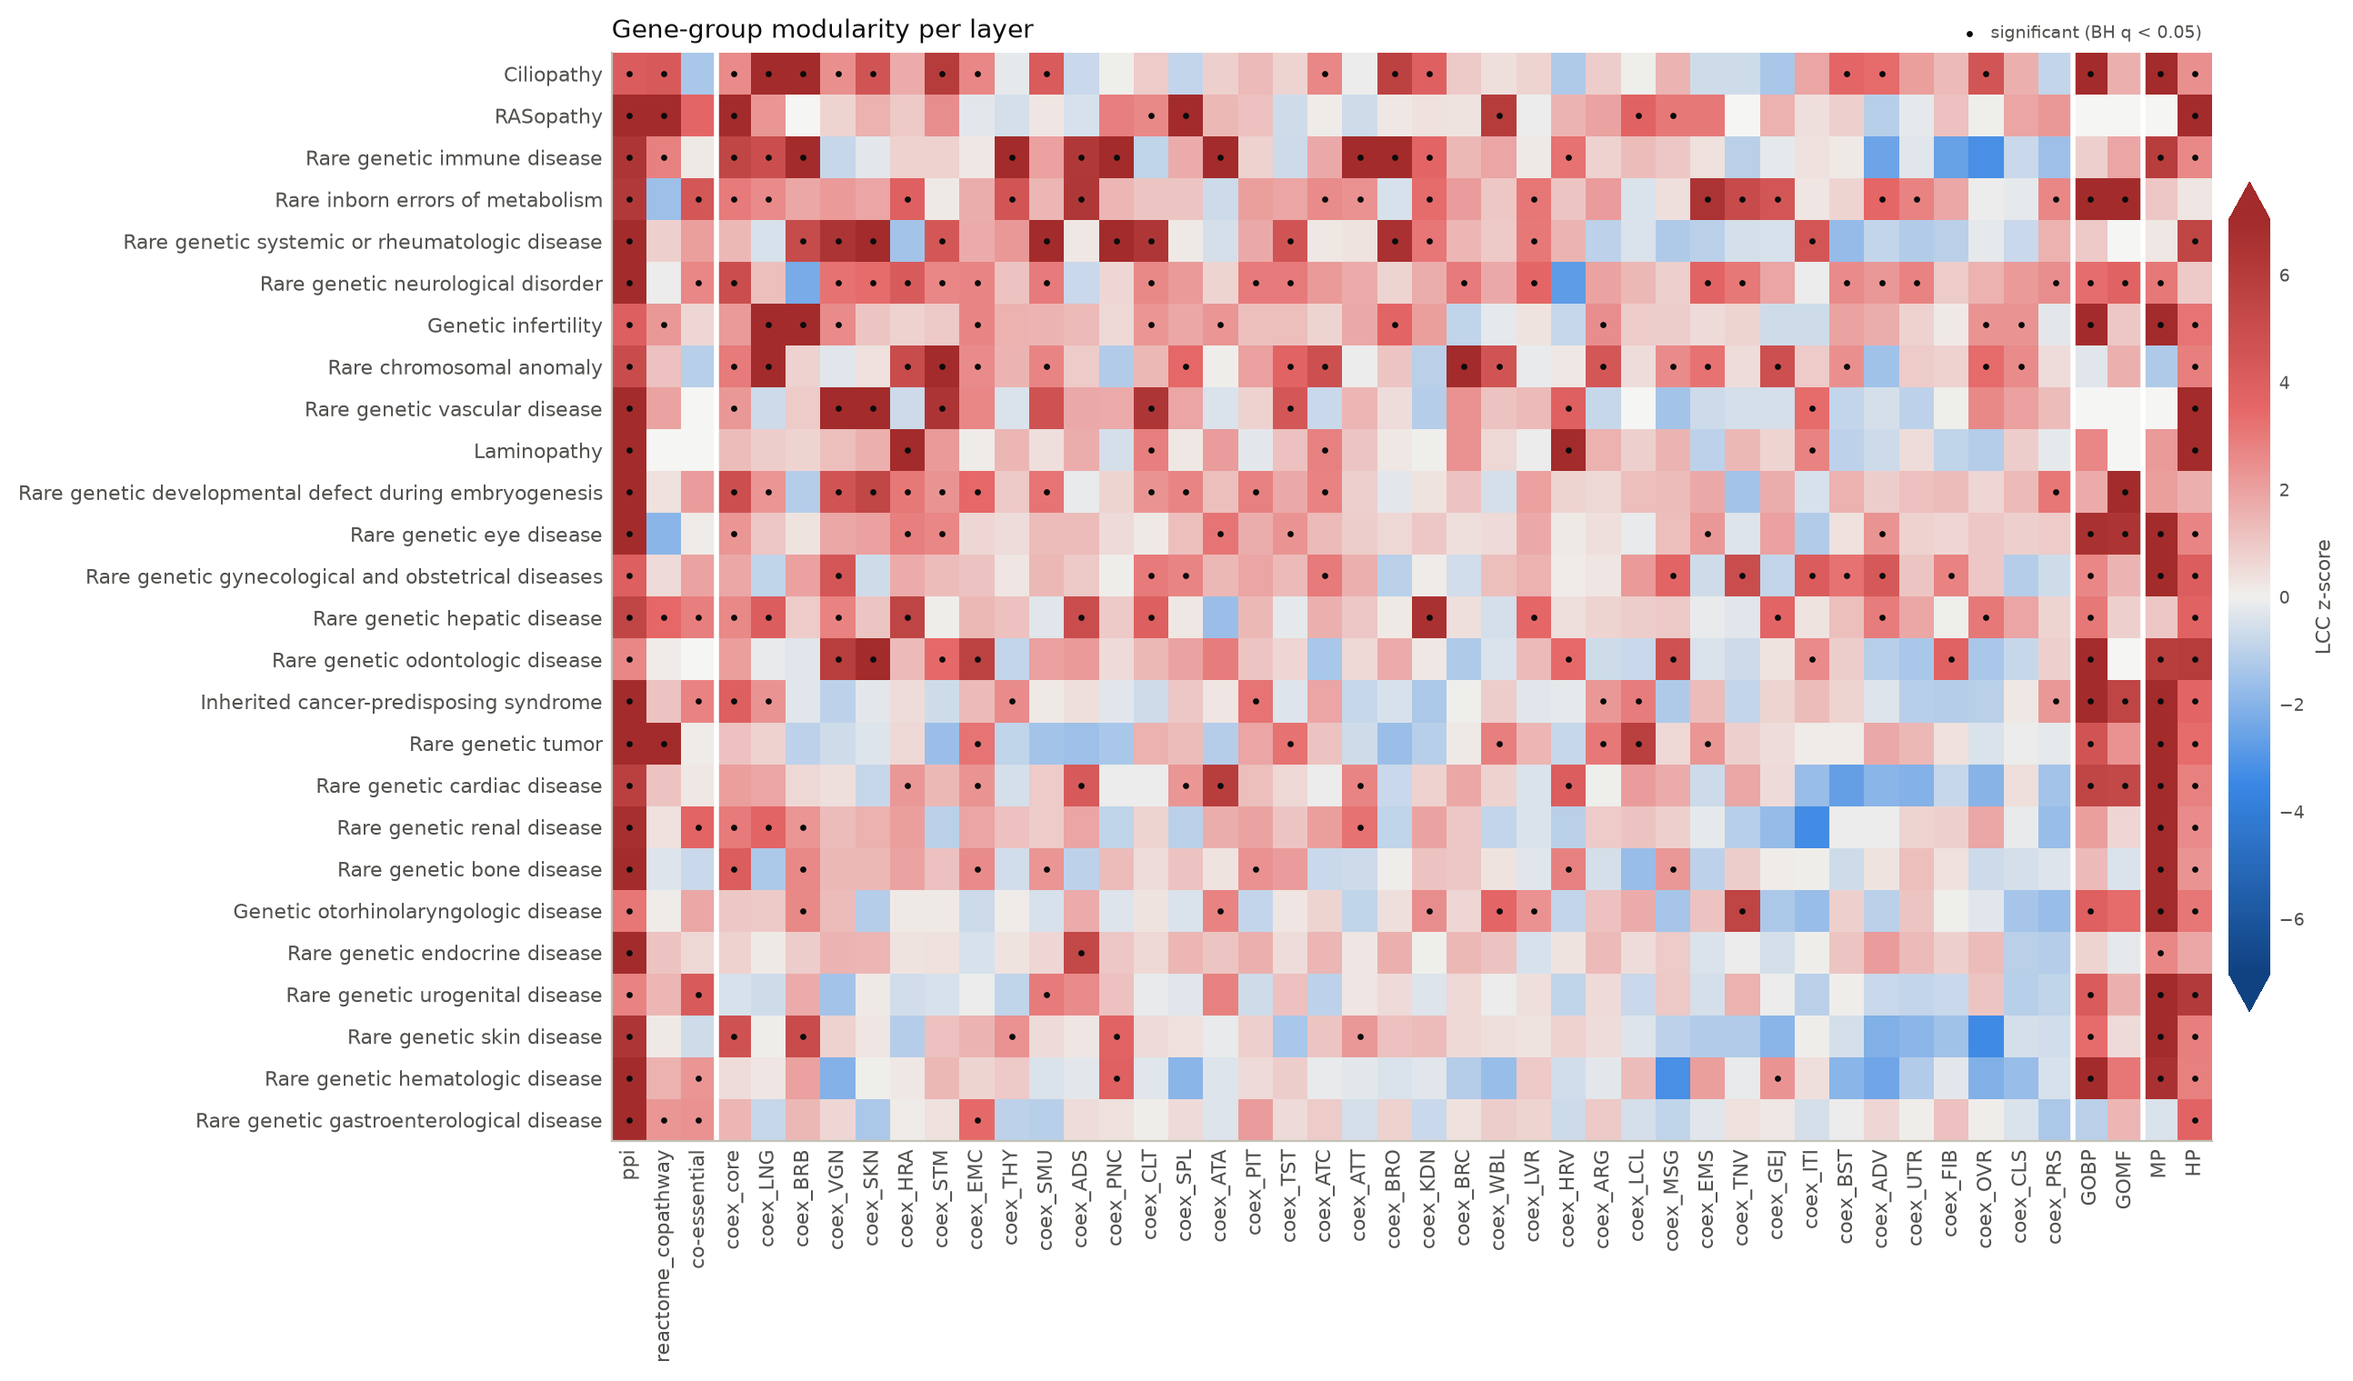
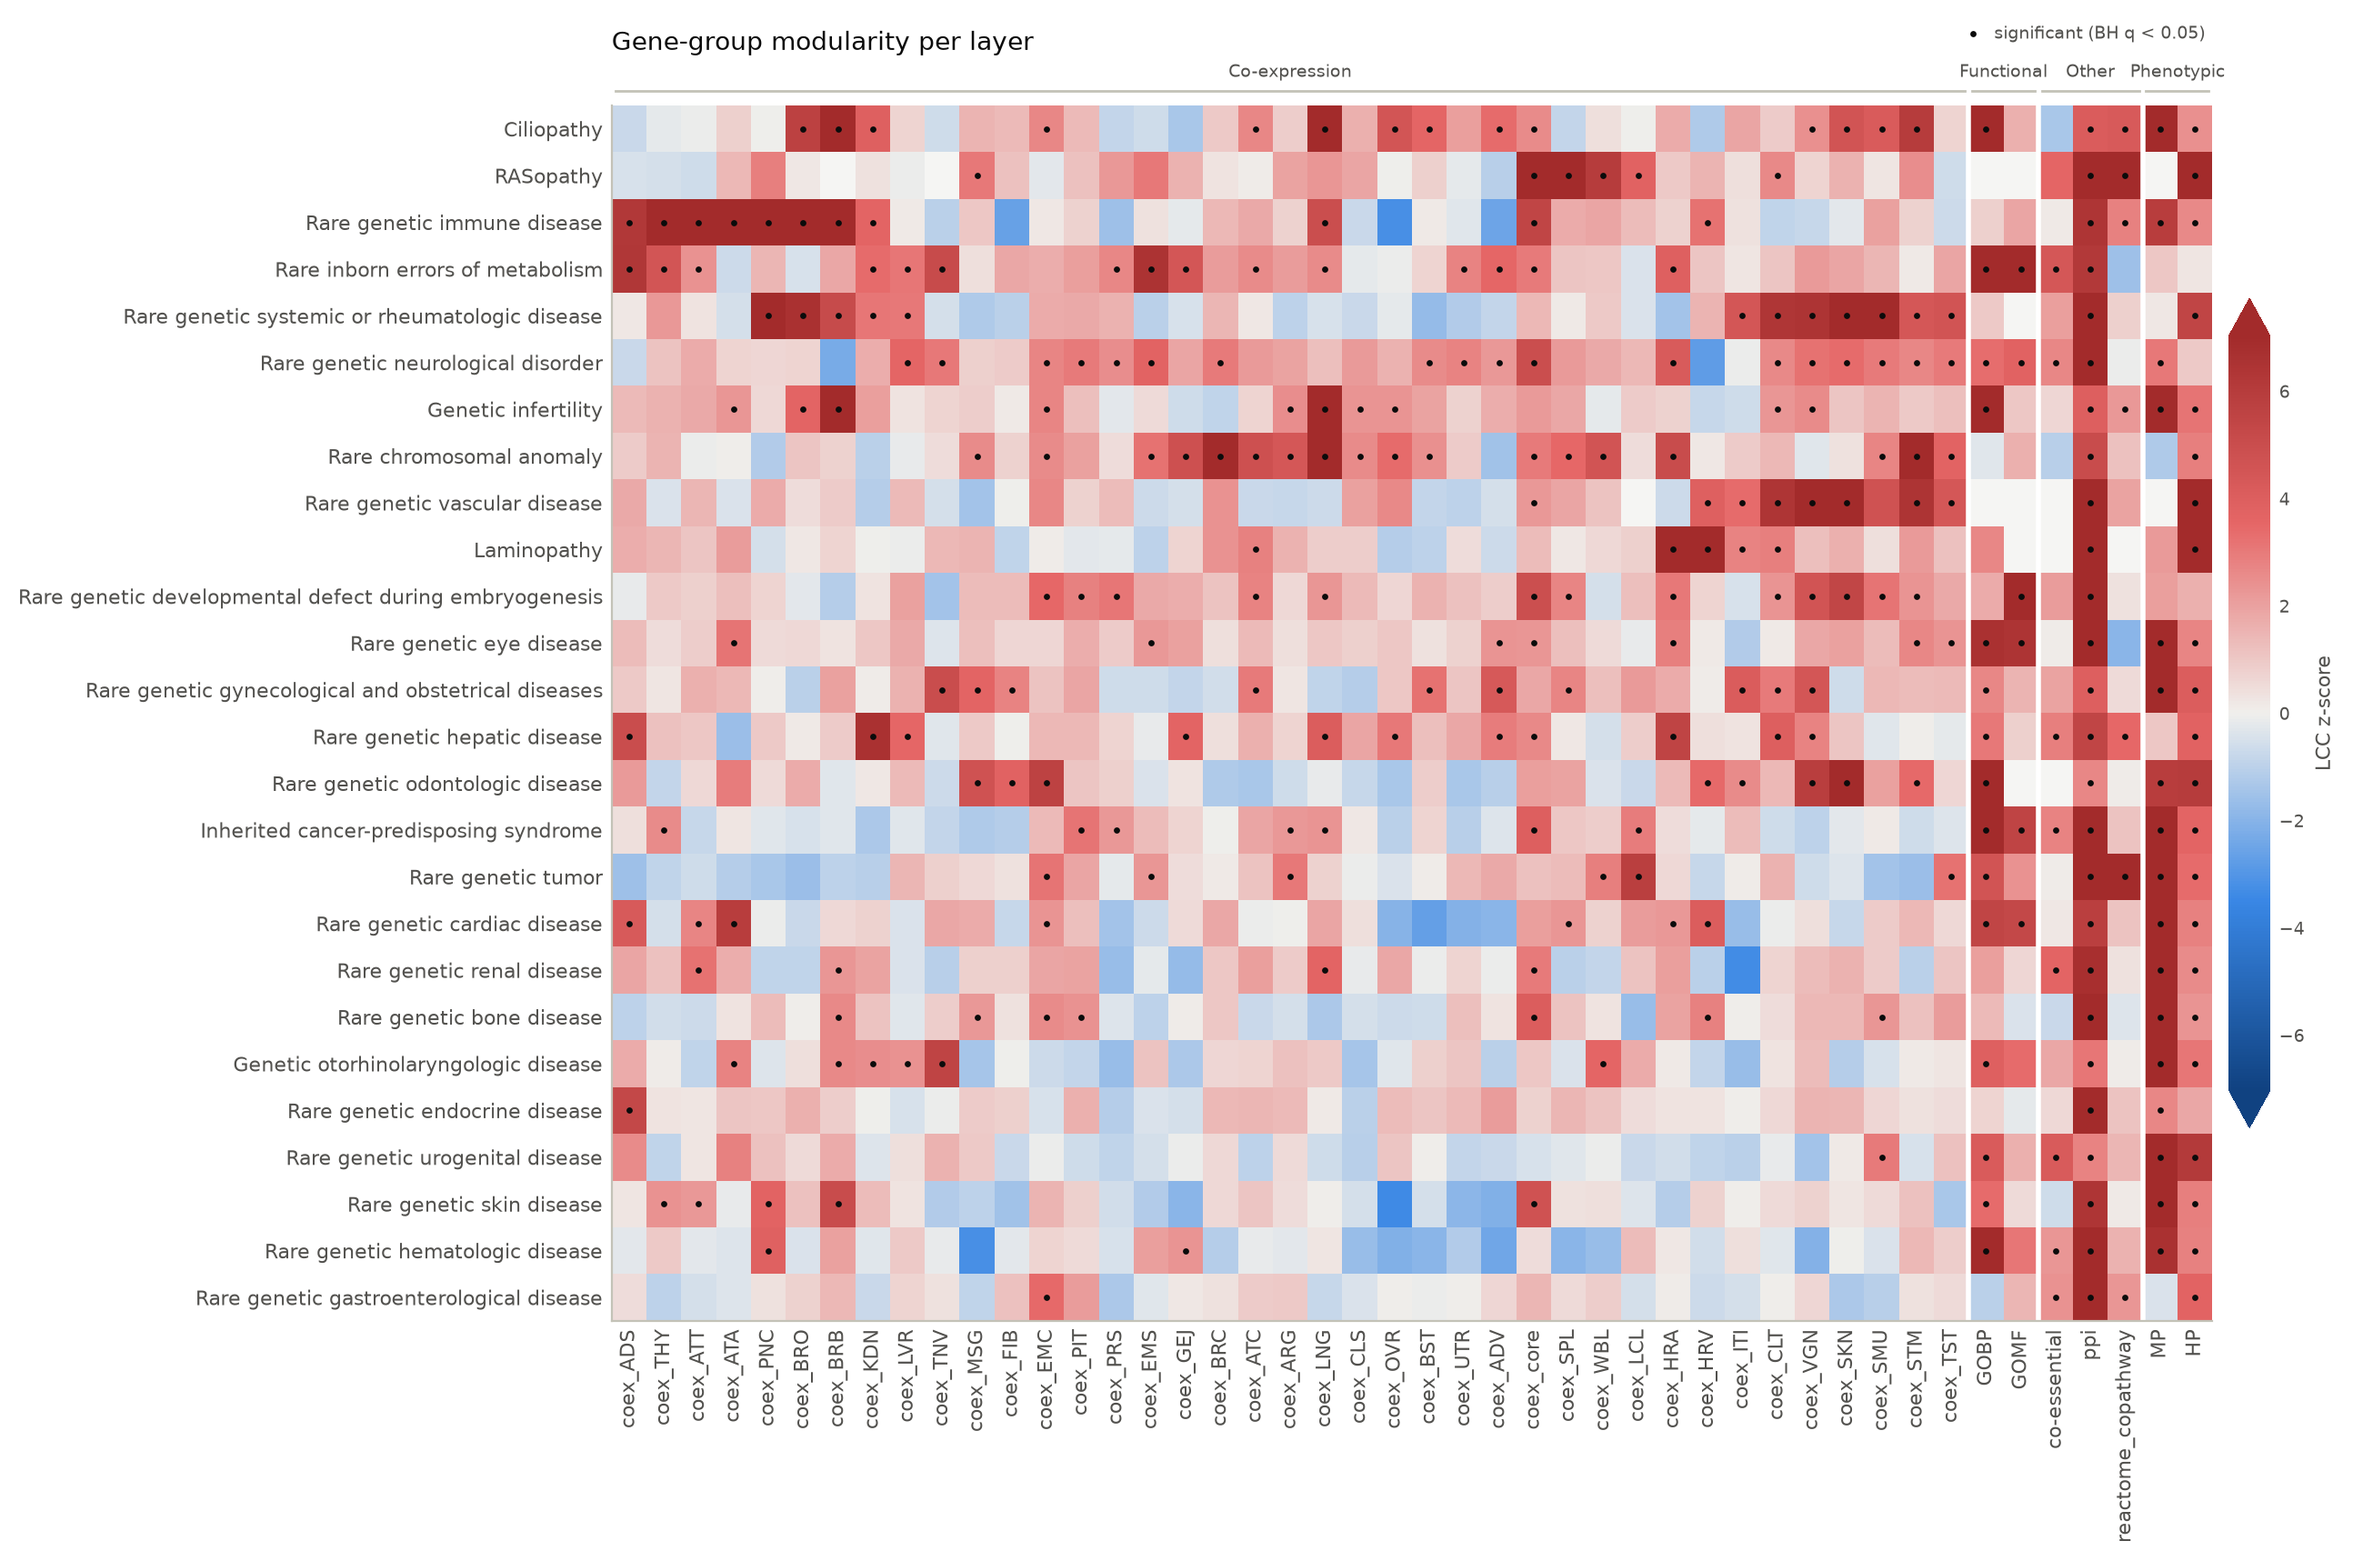
Label layer groups on the modularity heatmap and cluster layers within each group

diff --git a/src/multiome_algo/viz/plots.py b/src/multiome_algo/viz/plots.py
@@ -23,6 +23,7 @@ import numpy as np  # noqa: E402
 import pandas as pd  # noqa: E402
 from matplotlib.colors import LinearSegmentedColormap, TwoSlopeNorm  # noqa: E402
 from matplotlib.patches import Patch  # noqa: E402
+from matplotlib.transforms import offset_copy  # noqa: E402
 
 SERIES = ["#2a78d6", "#eb6834", "#1baf7a", "#eda100", "#e87ba4", "#008300", "#4a3aa7",
           "#e34948"]
@@ -67,6 +68,47 @@ def _series_colors(names: Sequence[str]) -> dict[str, str]:
 # --------------------------------------------------------------------------- modularity
 
 
+def _cluster_order(mat: pd.DataFrame) -> list[str]:
+    """Columns of `mat` ordered by average-linkage clustering of their profiles
+    (correlation distance, optimal leaf ordering)."""
+    from scipy.cluster.hierarchy import leaves_list, linkage
+    from scipy.spatial.distance import pdist
+
+    if mat.shape[1] < 3:
+        return list(mat.columns)
+    x = np.nan_to_num(mat.to_numpy(dtype=float).T)
+    d = np.nan_to_num(pdist(x, metric="correlation"), nan=1.0)
+    return list(mat.columns[leaves_list(linkage(d, "average", optimal_ordering=True))])
+
+
+def _label_column_groups(ax, group_of: list[str]) -> None:
+    """Group names centred above their column spans, with a thin bracket; a label wider
+    than its span moves up a tier so neighbours never overlap."""
+    spans, start = [], 0
+    for k in range(1, len(group_of) + 1):
+        if k == len(group_of) or group_of[k] != group_of[start]:
+            spans.append((group_of[start], start, k - 1))
+            start = k
+    fig = ax.figure
+    renderer = fig.canvas.get_renderer()
+    tier_end: list[float] = []  # right edge (display px) of the last label in each tier
+    for name, a, b in spans:
+        if not name:
+            continue
+        ax.plot([a - 0.4, b + 0.4], [1.012, 1.012], color=AXIS, linewidth=1,
+                transform=ax.get_xaxis_transform(), clip_on=False)
+        txt = ax.text((a + b) / 2, 1.02, name, ha="center", va="bottom", fontsize=7,
+                      color=INK2, transform=ax.get_xaxis_transform())
+        box = txt.get_window_extent(renderer)
+        tier = next((t for t, end in enumerate(tier_end) if box.x0 > end + 4), len(tier_end))
+        if tier == len(tier_end):
+            tier_end.append(box.x1)
+        tier_end[tier] = box.x1
+        if tier:
+            dy = tier * box.height / ax.get_window_extent(renderer).height * 1.15
+            txt.set_y(1.02 + dy)
+
+
 def plot_modularity_heatmap(
     table: pd.DataFrame,
     layer_tags: Mapping[str, str] | None = None,
@@ -74,15 +116,20 @@ def plot_modularity_heatmap(
     clip: float | None = None,
     out: str | Path | None = None,
     labels: Mapping[str, str] | None = None,
+    order: str | Sequence[str] = "cluster",
 ):
     """Heatmap of LCC modularity (rows = groups, columns = layers).
 
     Args:
         table: `modularity_table` output.
-        layer_tags: {layer_id: tag} to group columns (e.g. from `Multiplex.summary()`).
+        layer_tags: {layer_id: tag} to group columns (e.g. from `Multiplex.summary()`);
+            each group is labelled above the heatmap.
         value: column to show ("z_score" by default).
         clip: symmetric colour limit; defaults to the 95th percentile of |value|.
         labels: {group_id: display label}.
+        order: column order within each tag group: "cluster" (layers with similar
+            profiles across gene groups sit together), "mean" (highest mean first), or an
+            explicit list of layer ids.
     Significant cells (``significant`` column) are marked with a dot; grey = not assessed.
     """
     mat = table.pivot(index="group_id", columns="layer_id", values=value)
@@ -90,14 +137,23 @@ def plot_modularity_heatmap(
     sig = sig.reindex_like(mat).fillna(False).astype(bool)
 
     tags = layer_tags or {}
-    cols = sorted(mat.columns, key=lambda c: (tags.get(c, "~"), -np.nanmean(mat[c]), c))
+    if isinstance(order, str):
+        if order not in ("cluster", "mean"):
+            raise ValueError(f"order must be 'cluster', 'mean' or a list, got {order!r}")
+        by_mean = sorted(mat.columns, key=lambda c: (-np.nanmean(mat[c]), c))
+        cols = []
+        for tag in sorted({tags.get(c, "") for c in mat.columns}, key=lambda t: (not t, t)):
+            members = [c for c in by_mean if tags.get(c, "") == tag]
+            cols += _cluster_order(mat[members]) if order == "cluster" else members
+    else:
+        cols = [c for c in order if c in mat.columns]
     rows = mat.loc[:, cols].mean(axis=1).sort_values(ascending=False).index
     mat, sig = mat.loc[rows, cols], sig.loc[rows, cols]
 
     finite = np.abs(mat.to_numpy()[np.isfinite(mat.to_numpy())])
     lim = clip or (float(np.percentile(finite, 95)) if finite.size else 1.0)
     lim = max(lim, 1e-6)
-    fig, ax = plt.subplots(figsize=(max(6, 0.22 * len(cols) + 3), max(3, 0.24 * len(rows) + 1.5)))
+    fig, ax = plt.subplots(figsize=(max(6, 0.22 * len(cols) + 3), max(3, 0.24 * len(rows) + 2)))
     cmap = DIVERGING.with_extremes(bad="#f5f5f3")
     im = ax.imshow(np.ma.masked_invalid(mat.to_numpy()), aspect="auto", cmap=cmap,
                    norm=TwoSlopeNorm(vcenter=0, vmin=-lim, vmax=lim))
@@ -109,20 +165,27 @@ def plot_modularity_heatmap(
     ax.set_yticks(range(len(rows)))
     ax.set_yticklabels([(labels or {}).get(r, r) for r in rows], fontsize=7)
     _style(ax, grid_axis="")
-    # separators between tag groups
+    cb = fig.colorbar(im, ax=ax, fraction=0.025, pad=0.01, extend="both")
+    cb.set_label("LCC z-score" if value == "z_score" else value, color=INK2, fontsize=8)
+    cb.outline.set_visible(False)
+    cb.ax.tick_params(labelsize=7, colors=INK2, length=0)
+    fig.tight_layout()
     if tags:
         group_of = [tags.get(c, "") for c in cols]
         for k in range(1, len(cols)):
             if group_of[k] != group_of[k - 1]:
                 ax.axvline(k - 0.5, color="white", linewidth=2)
-    cb = fig.colorbar(im, ax=ax, fraction=0.025, pad=0.01, extend="both")
-    cb.set_label("LCC z-score" if value == "z_score" else value, color=INK2, fontsize=8)
-    cb.outline.set_visible(False)
-    cb.ax.tick_params(labelsize=7, colors=INK2, length=0)
+        _label_column_groups(ax, group_of)
+    pad = 22 if tags else 6  # room for the group labels
     ax.legend(loc="lower right", bbox_to_anchor=(1, 1), frameon=False, fontsize=7,
-              labelcolor=INK2, handletextpad=0.2, borderaxespad=0.2)
-    ax.set_title("Gene-group modularity per layer", loc="left", color=INK, fontsize=10)
-    return _finish(fig, out)
+              labelcolor=INK2, handletextpad=0.2, borderaxespad=0,
+              bbox_transform=offset_copy(ax.transAxes, fig, y=pad, units="points"))
+    ax.set_title("Gene-group modularity per layer", loc="left", color=INK, fontsize=10,
+                 pad=pad)
+    if out:
+        Path(out).parent.mkdir(parents=True, exist_ok=True)
+        fig.savefig(out, dpi=200, bbox_inches="tight", facecolor="white")
+    return fig
 
 
 def plot_layer_weights(

diff --git a/tests/test_lcc.py b/tests/test_lcc.py
@@ -2,6 +2,7 @@ from __future__ import annotations
 
 import networkx as nx
 import numpy as np
+import pandas as pd
 import pytest
 
 from multiome_algo.lcc import (
@@ -81,3 +82,23 @@ def test_invalid_args(planted):
         modularity_table(mpx, groups, p_value="bogus")
     with pytest.raises(ValueError):
         LCCNull(mpx["A"], null="bogus")
+
+
+def test_heatmap_column_order(planted):
+    from multiome_algo.viz.plots import _cluster_order, plot_modularity_heatmap
+
+    mpx, groups = planted
+    tab = modularity_table(mpx, groups, n_trials=20, seed=0)
+    tags = {"A": "x", "B": "x", "C": "y"}
+    fig = plot_modularity_heatmap(tab, layer_tags=tags)
+    ax = fig.axes[0]
+    assert [t.get_text() for t in ax.get_xticklabels()][-1] == "C"  # grouped by tag
+    assert {"x", "y"} <= {t.get_text() for t in ax.texts}  # group labels drawn
+    fig = plot_modularity_heatmap(tab, order=["C", "B", "A"])
+    assert [t.get_text() for t in fig.axes[0].get_xticklabels()] == ["C", "B", "A"]
+    with pytest.raises(ValueError):
+        plot_modularity_heatmap(tab, order="bogus")
+    # profiles: a and c identical, b opposite -> a, c adjacent
+    m = pd.DataFrame({"a": [1, 2, 3, 4], "b": [4, 3, 2, 1], "c": [1, 2, 3, 4.1]})
+    order = _cluster_order(m)
+    assert abs(order.index("a") - order.index("c")) == 1

diff --git a/src/multiome_core/io.py b/src/multiome_core/io.py
@@ -122,8 +122,9 @@ def read_layer_metadata(path: str | Path) -> pd.DataFrame:
     out = pd.DataFrame({"layer_id": df.iloc[:, 0]})
     if "tags" in cols:
         out["tags"] = df[cols["tags"]].map(lambda s: tuple(t for t in s.split(";") if t))
-    elif "type" in cols:  # original network_details.tsv
-        out["tags"] = df[cols["type"]].map(lambda s: (s,) if s else ())
+    elif "type" in cols:  # original network_details.tsv: type, else main_type
+        main = df[cols["main_type"]] if "main_type" in cols else pd.Series("", index=df.index)
+        out["tags"] = [(t or m,) if (t or m) else () for t, m in zip(df[cols["type"]], main)]
     else:
         out["tags"] = [()] * len(df)
     desc_col = cols.get("description") or cols.get("subtype")

diff --git a/README.md b/README.md
@@ -175,8 +175,10 @@ come from this script (seed 0).
 
 ### Example output (shipped data, seed 0)
 
-**Layer relevance.** LCC z-score of each Orphanet group in each layer; dots mark
-BH q < 0.05.
+**Layer relevance.** LCC z-score of each of the paper's 26 Orphanet groups (the 28 in
+the shipped table minus two below 20 genes) in each layer; dots mark BH q < 0.05. Layers
+are grouped by type, and within a type ordered so that layers with similar profiles sit
+together (`order="cluster"`; `"mean"` or an explicit list also work).
 
 ![Modularity heatmap](docs/figures/modularity_heatmap.png)
 
